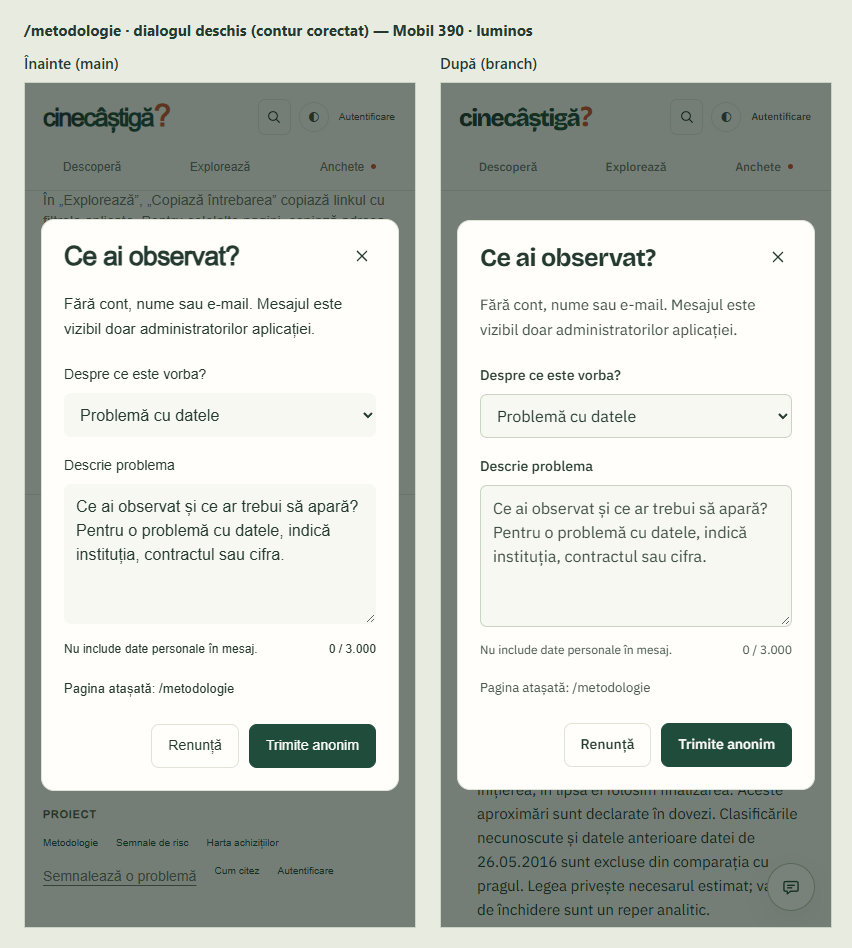
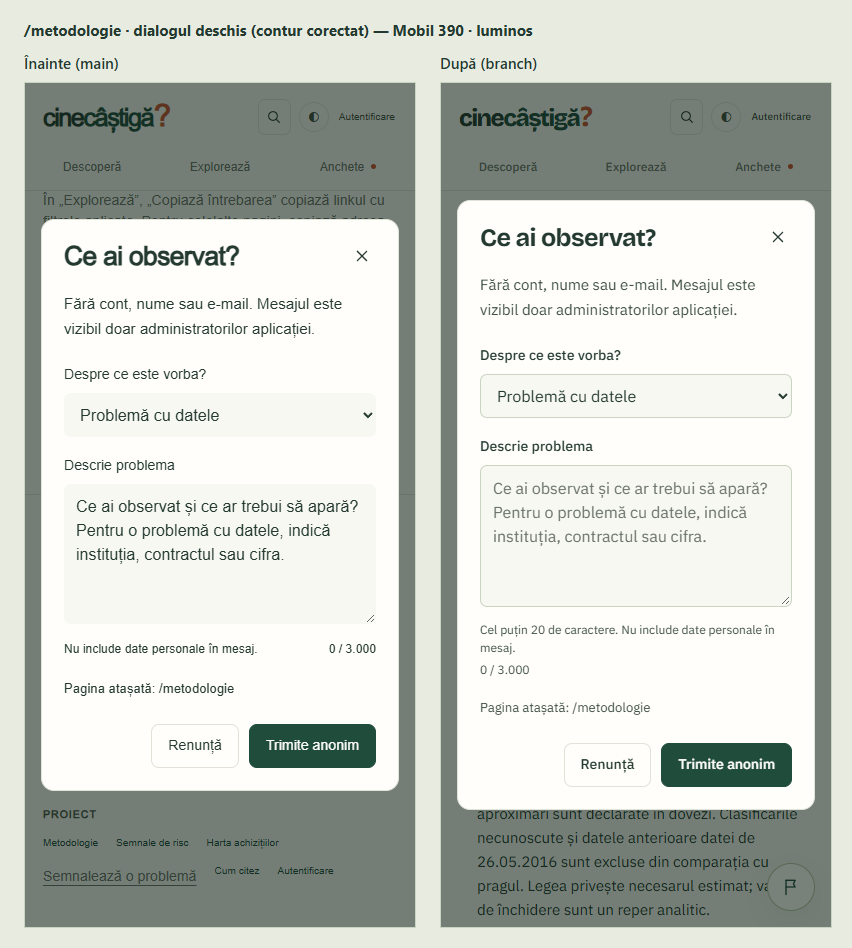
docs(feedback): dual-agent critique, refreshed previews and notes
- Dual-agent Impeccable critique snapshot (26/40; supersedes the earlier
  single-context run) and updated surface brief.
- Before/after captures re-taken against main, now including a 1280px
  laptop view; compare.json still reports HTTP 200, no overflow, no JS errors.
- anonymous-feedback.md, HANDOFF.md and the mockup README describe the final
  placement thresholds, flag icon and the critique fixes.

Changed region(s): [[0.5188, 0.1835, 0.9765, 0.6118], [0.5188, 0.6424, 0.9765, 0.8565], [0.9155, 0.9177, 0.946, 0.9483]]

diff --git a/.impeccable/critique/2026-10-02T16-50-16Z__apps-web-components-feedback-reportproblem-tsx.md b/.impeccable/critique/2026-10-02T16-50-16Z__apps-web-components-feedback-reportproblem-tsx.md
@@ -1,0 +1,67 @@
+---
+target: floating Feedback tab (ReportProblem) - dual-agent
+total_score: 26
+max_score: 40
+na_heuristics: 
+p0_count: 0
+p1_count: 2
+target_identity: "file:F:\\CineCastiga\\seap-new\\apps\\web\\components\\feedback\\ReportProblem.tsx"
+target_fingerprint: "sha256:b647631ecc3925bb003219f9d031a194baafc1e752466b4918877f11a8278ab2"
+target_path: "F:\\CineCastiga\\seap-new\\apps\\web\\components\\feedback\\ReportProblem.tsx"
+timestamp: 2026-10-02T16-50-16Z
+slug: apps-web-components-feedback-reportproblem-tsx
+---
+Method: dual-agent (A: design-review sub-agent · B: detector/browser sub-agent)
+
+# Critique — floating Feedback tab (feat/floating-feedback), dual-agent re-run
+
+Target: `apps/web/components/feedback/ReportProblem.tsx`, `feedback.css`, `app/layout.tsx`; live on localhost (local snapshot data `seap_collab_20261001`, older than production). Mode: Operate. Supersedes the single-context run of the same day (31/40, degraded).
+
+| # | Heuristic | Score | Key Issue |
+|---|-----------|-------|-----------|
+| 1 | Visibility of System Status | 3 | Sending/success states are clear; the attached page silently goes stale after client-side navigation |
+| 2 | Match System / Real World | 3 | Romanian copy is natural, but "Feedback" plus a chat icon implies a conversation; the raw path is technical |
+| 3 | User Control and Freedom | 3 | Esc, ×, Renunță and focus return work; the attached page can't be corrected |
+| 4 | Consistency and Standards | 2 | aria-label promises "trimite o sugestie" but the dialog says "Descrie problema"; two focus-ring styles |
+| 5 | Error Prevention | 2 | Content collides with the tab; stale page attachment; 20-character minimum not shown up front |
+| 6 | Recognition Rather Than Recall | 3 | Always visible and labelled on desktop; icon-only on mobile |
+| 7 | Flexibility and Efficiency | 2 | Last tab stop; no in-context entry point; category never adapts to the page |
+| 8 | Aesthetic and Minimalist Design | 3 | Quiet and on-brand, but intrudes on content edges at common widths |
+| 9 | Error Recovery | 3 | Excellent timeout/409 messages; short input shows the browser's English bubble instead |
+| 10 | Help and Documentation | 2 | Privacy explained; nothing says what happens to a report |
+| **Total** | | **26/40** | **Acceptable** |
+
+## Design specificity
+LLM (A): the entry point is the stock SaaS feedback widget (right-edge vertical "Feedback" tab with a chat bubble). It is token-perfect and dark-mode clean, but generic in concept. The product-specific part is the existing dialog copy ("Ce ai observat?", "indică instituția, contractul sau cifra", "Pagina atașată"). Missed opportunity: a Romanian action label, and carrying record/answer context into the report.
+Deterministic (B): CLI markup scan (ReportProblem.tsx, layout.tsx) was clean, 0 findings. CSS scan found 3 advisories, all on dialog rules that existed before this branch (backdrop literal colour, 14px error text, 25px mobile h2). Browser overlay (port 8400, own tab, dark theme): /semnale/24086173 desktop had 7 findings, 1 on the change; mobile had 13, 1 on the change; /metodologie with the dialog open had 46, 1 on the change and 0 on the dialog. The single on-change finding is "1px border + 35px shadow blur" on `.feedback-fab`. It is likely token-consistent rather than a defect: `--shadow2` is used about 22 times and the search dialog gets the same flag. Everything else (line length, side-tab cards, 9–11px text in the search dialog and footer) predates this change. The overlay ran in a temporary tab that was closed; none remains.
+Agreement: both find the tab token-disciplined. A caught behavioural defects (stale page, overlap at specific widths, native validation) that no detector rule covers.
+
+## Overall impression
+Calm, on-brand and mechanically solid, but generic in concept. Two real defects need fixing before merge: reports can carry the wrong page, and the tab can hide exact values at some widths.
+
+## What's working
+- Token discipline in both themes, hidden in print, reduced motion respected, accent-soft hover.
+- Dialog mechanics: native modal in the top layer, Esc returns focus to the trigger, draft survives closing, idempotent submit, honeypot, privacy copy first.
+- Responsive switch to a 48px corner button with safe-area offset; label-in-name holds ("Feedback" starts the aria-label).
+
+## Priority issues
+- **[P1] The attached page goes stale.** One persistent layout instance only refreshes `sourcePath` when a new draft starts. Reproduced: open on /intreaba, type, Esc, navigate to / → still "Pagina atașată: /intreaba". Admins get the wrong page, which breaks traceability. Fix: refresh `sourcePath` from `pathname` on every open; keep the draft. Command: /impeccable harden.
+- **[P1] The tab covers content at many widths.** At 710px it clips "3.919,40" to "3.919,4" in the exact-value column; at 768, 1024 and 1280px it overlaps the table card or content edge by 5–10px; at 375px the round button sits on the full-width "Vezi cele 4 achiziții" button. Hiding exact values violates a core invariant. Fix: show the edge tab only with a real gutter (about ≥1360px) and use the corner button below that; reserve bottom padding on small screens. Command: /impeccable adapt.
+- **[P2] Keyboard and screen-reader reach.** It is the last tab stop (after the footer) and sits outside landmarks. Fix: wrap it in a labelled `<aside>` landmark (or add a skip link). Command: /impeccable harden.
+- **[P2] The label and icon promise a conversation.** "Feedback" plus a chat bubble suggests a reply channel; the copy is problem-only and anonymous. Fix: a flag-style icon and/or a Romanian action label; field label follows the category. Command: /impeccable clarify.
+
+## Persona red flags
+- **Sam (accessibility):** last tab stop, outside landmarks; dialog focus starts on the × close button rather than the first field; too-short input shows the browser's English bubble, never the Romanian role=alert message.
+- **Casey (mobile):** the corner button overlaps the full-width primary button on /intreaba; last footer lines pass under it; at 320×640 "Trimite anonim" sits below the fold; icon-only.
+- **Jordan (first-timer):** the chat icon implies someone will reply; the 20-character minimum is hidden until it fails ("17 / 3.000"); the attached page is a raw path, sometimes the wrong one.
+
+## Minor observations
+- Placeholder now uses `--ink2` (#3f5043), close to ink, so it reads as pre-filled text. This is a side effect of the variable fix; the app's other placeholders use `--muted`.
+- Header and tab both use z-index 30; no conflict observed.
+- The dark backdrop barely separates the dialog. The button shows on /login (no page attached). /admin hiding verified in code (logged-out /admin redirects to /login).
+- Pre-existing: `required minLength` triggers native validation before the Romanian message; "Renunță" keeps the draft; Explore attaches only "/intreaba" by design; hydration mismatch from the `<Reveal />` component.
+
+## Questions to consider
+- If the most valuable report is "this number is wrong", should the entry point carry the record or answer title into the dialog?
+- Should the edge tab appear only where a real gutter exists?
+- What could an anonymous reporter get back (a reference code, a link to known issues or coverage) so the flow doesn't end at a dead end?

diff --git a/apps/web/.impeccable/surfaces/apps-web-components-feedback-reportproblem-tsx.md b/apps/web/.impeccable/surfaces/apps-web-components-feedback-reportproblem-tsx.md
@@ -13,11 +13,11 @@ Mode: Operate. Primary target `apps/web/components/feedback/ReportProblem.tsx`; 
 
 THESIS: One quiet, always-available entry point for anonymous feedback, docked to the right edge. The existing dialog, copy, attached-page rules, validation, idempotency and privacy stay unchanged.
 
-OWN-WORLD: Existing tokens only: surface background, accent text, accent-line border, `--shadow2` elevation, Plex 500 14px, 8px radius on the free (left) corners, the shared orange focus ring, dark-theme variables. No new color, font or motion vocabulary.
+OWN-WORLD: Existing tokens only (flag icon, not a chat bubble: reporting, not a conversation; wrapped in `<aside aria-label="Feedback">`): surface background, accent text, accent-line border, `--shadow2` elevation, Plex 500 14px, 8px radius on the free (left) corners, the shared orange focus ring, dark-theme variables. No new color, font or motion vocabulary.
 
 STORY: The visitor notices a data problem or has a suggestion on any public page, opens the right-edge "Feedback" tab, sees the existing dialog with the public page attached, sends anonymously, and focus returns to the tab.
 
-FIRST VIEWPORT: Desktop: a vertical tab (icon + "Feedback", top-to-bottom), vertically centred on the right edge. At ≤700px it becomes a 48px round icon button in the bottom-right corner (16px + safe area), changed after the critique so it never covers the content edge; the accessible name stays "Feedback: semnalează o problemă sau trimite o sugestie". Hidden on `/admin/*` and in print.
+FIRST VIEWPORT: ≥1360px (where the 1256px shell leaves a real gutter): a vertical tab (flag icon + "Feedback", top-to-bottom), vertically centred on the right edge, 42–82px clear of content. Below 1360px: a 48px round flag button in the bottom-right corner (24px; 16px ≤700px; plus safe area), and the footer reserves 72px at the bottom. Both thresholds came from the dual-agent critique (the tab clipped an exact value at 710px and overlapped tables at 768–1340px); the accessible name stays "Feedback: semnalează o problemă sau trimite o sugestie". Hidden on `/admin/*` and in print.
 
 FORM: Replaces all three inline "Semnalează o problemă" triggers (footer, Explore answer actions, source-evidence pages), as the user decided. z-index 30: above sticky subnavs (≤20), below popovers (40), tooltips and toasts; modal dialogs (feedback, evidence drawer) live in the top layer and cover it. Reduced motion removes the hover transition.
 

diff --git a/HANDOFF.md b/HANDOFF.md
@@ -1,6 +1,6 @@
 ## 2026-10-02 — Buton „Feedback” plutitor, local
 
-Prima funcționalitate a colaboratorului, pe branch-ul `feat/floating-feedback` (fără commit/push la momentul notei; review și merge doar de proprietar). Linkurile „Semnalează o problemă” (footer, Explorează, pagini-sursă) sunt înlocuite de un singur buton „Feedback” lipit de marginea dreaptă, ales din [mockup](mockups/floating-feedback/README.md) (varianta A, discret). Ascuns în `/admin`; pe telefon, buton rotund în colțul din dreapta jos (ajustare după critica de design, 31/40); dialogul și API-ul neschimbate. Corectate separat variabilele CSS inexistente ale dialogului (câmpurile nu aveau contur). [Detalii și verificări](docs/implementation/anonymous-feedback.md#buton-feedback-plutitor--2-octombrie-2026); comparații înainte/după în `docs/implementation/previews/floating-feedback/`. TypeScript, 370 teste unitare web (148 integrări sărite), build și verificări browser trecute pe Windows/Node 22 cu baza locală restaurată. Fără migrare, SEAP sau deploy.
+Prima funcționalitate a colaboratorului, pe branch-ul `feat/floating-feedback` (fără commit/push la momentul notei; review și merge doar de proprietar). Linkurile „Semnalează o problemă” (footer, Explorează, pagini-sursă) sunt înlocuite de un singur buton „Feedback” lipit de marginea dreaptă, ales din [mockup](mockups/floating-feedback/README.md) (varianta A, discret). Tab doar de la 1360px în sus (unde există margine), sub prag buton rotund cu steag în colțul din dreapta jos; ascuns în `/admin`. După critica cu doi evaluatori (26/40) au fost corectate și pagina atașată rămasă veche după navigare, validarea afișată în engleză de browser, culoarea placeholderului și reperul pentru cititoare de ecran. Dialogul și API-ul de trimitere neschimbate. Corectate separat variabilele CSS inexistente ale dialogului (câmpurile nu aveau contur). [Detalii și verificări](docs/implementation/anonymous-feedback.md#buton-feedback-plutitor--2-octombrie-2026); comparații înainte/după în `docs/implementation/previews/floating-feedback/`. TypeScript, 370 teste unitare web (148 integrări sărite), build și verificări browser trecute pe Windows/Node 22 cu baza locală restaurată. Fără migrare, SEAP sau deploy.
 
 ## 2026-10-01 — Identități istorice reparate în producție
 

diff --git a/docs/implementation/previews/floating-feedback/compare.md b/docs/implementation/previews/floating-feedback/compare.md
@@ -4,6 +4,10 @@
 
 ![/semnale/24086173 desktop](https://raw.githubusercontent.com/Alex-Cosma/seap-new/feat/floating-feedback/docs/implementation/previews/floating-feedback/compare-semnale-24086173-desktop.png)
 
+**/semnale/24086173 · pagina cu înregistrările sursă, completă** — Laptop 1280 · luminos
+
+![/semnale/24086173 laptop](https://raw.githubusercontent.com/Alex-Cosma/seap-new/feat/floating-feedback/docs/implementation/previews/floating-feedback/compare-semnale-24086173-laptop.png)
+
 **/semnale/24086173 · pagina cu înregistrările sursă, completă** — Mobil 390 · luminos
 
 ![/semnale/24086173 mobile](https://raw.githubusercontent.com/Alex-Cosma/seap-new/feat/floating-feedback/docs/implementation/previews/floating-feedback/compare-semnale-24086173-mobile.png)

diff --git a/mockups/floating-feedback/README.md b/mockups/floating-feedback/README.md
@@ -34,7 +34,7 @@ Deschide <http://127.0.0.1:4185/floating-feedback/>. Nu este o rută Next.js și
 
 ## După alegere
 
-Varianta aleasă: **A, discret** (2 octombrie 2026). După critica de design, pe telefon butonul compact al variantei A folosește colțul din dreapta jos (ca B), ca să nu acopere marginea conținutului. Mockupul păstrează variantele inițiale, pentru comparație.
+Varianta aleasă: **A, discret** (2 octombrie 2026). După critica de design, aplicația folosește tabul A doar de la 1360px în sus; sub prag, butonul rotund din colțul din dreapta jos (ca B), ca să nu acopere marginea conținutului. Pictograma a devenit un steag. Mockupul păstrează variantele inițiale, pentru comparație.
 
 ## Date și limite
 
